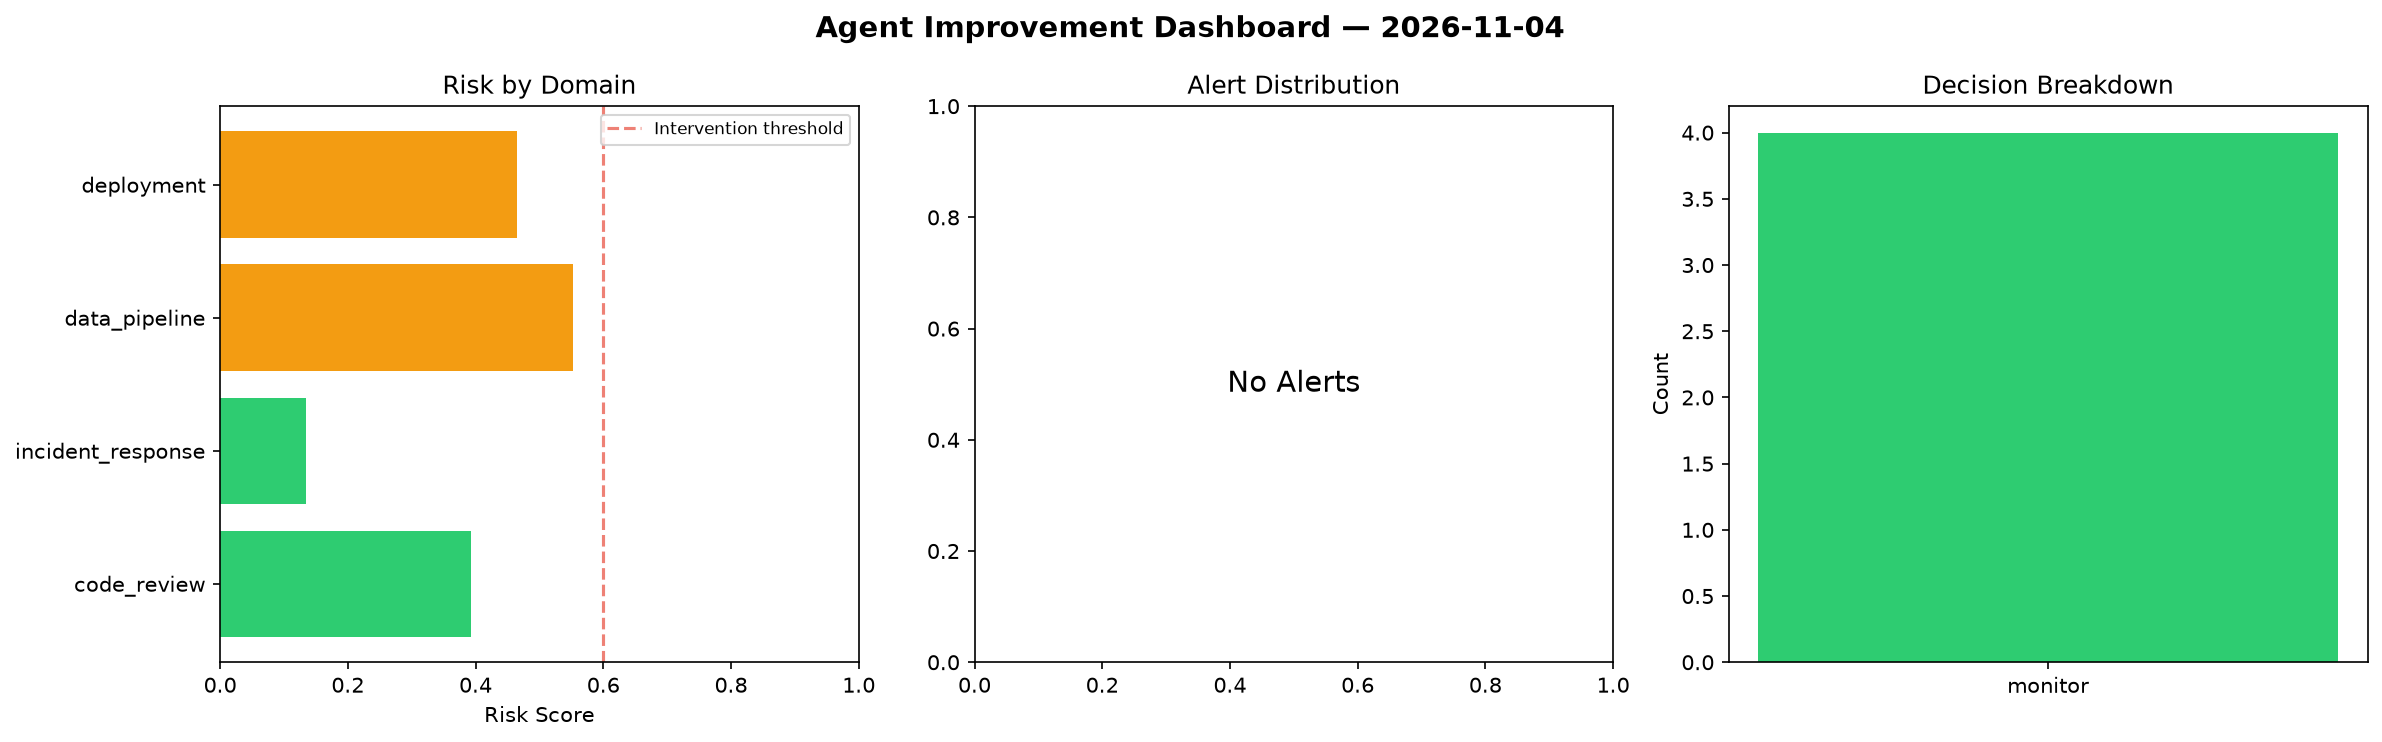
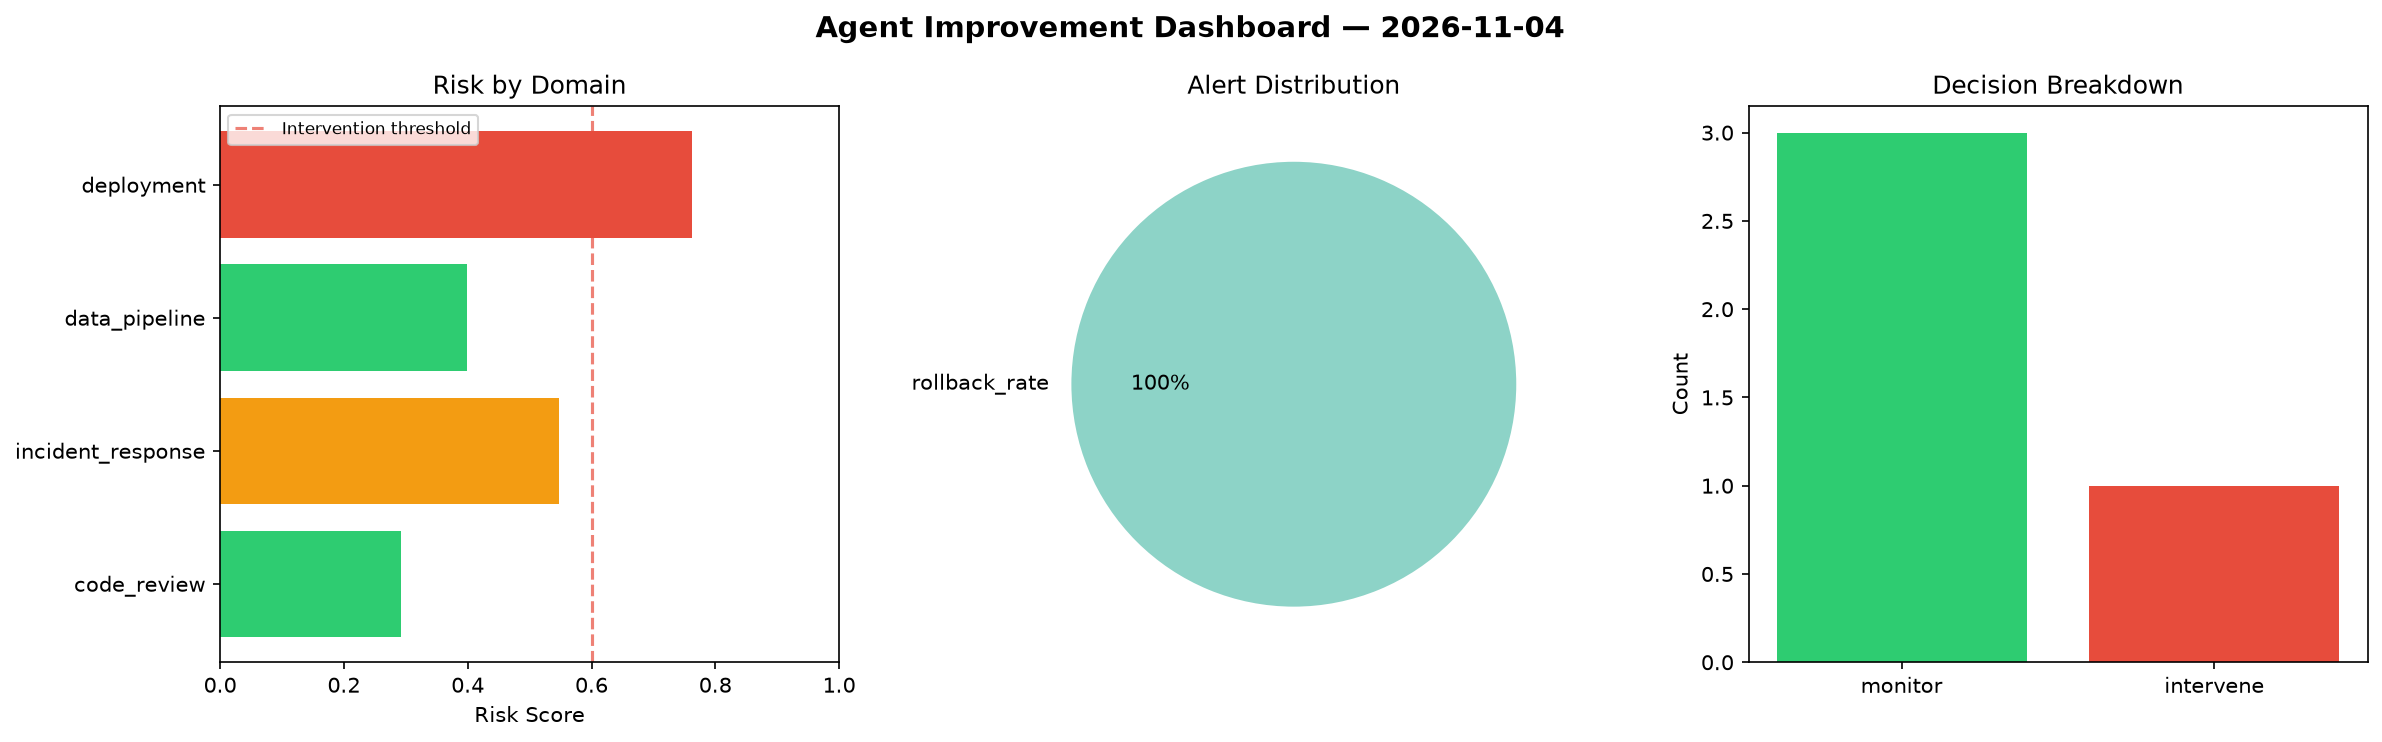
agent-improvement: daily cycle 2026-11-04T09:06

diff --git a/logs/2026-11-04.md b/logs/2026-11-04.md
@@ -1,6 +1,6 @@
 # Agent Improvement Report — 2026-11-04
 
-**Cycle ID:** `7316dcc2` | **Avg Risk:** 0.3864 | **Interventions:** 0/4
+**Cycle ID:** `2d770952` | **Avg Risk:** 0.5 | **Interventions:** 1/4
 
 ![Dashboard](2026-11-04_dashboard.png)
 
@@ -10,18 +10,18 @@
 
 | Domain | Risk Score | Decision | Alerts |
 |--------|-----------|----------|--------|
-| code_review | 0.3921 | monitor | none |
-| incident_response | 0.1348 | monitor | none |
-| data_pipeline | 0.5531 | monitor | none |
-| deployment | 0.4654 | monitor | none |
+| code_review | 0.2914 | monitor | none |
+| incident_response | 0.5471 | monitor | none |
+| data_pipeline | 0.3994 | monitor | none |
+| deployment | 0.7623 | intervene | rollback_rate |
 
 ## Delta vs Yesterday
 
 | Domain | Today | Yesterday | Change |
 |--------|-------|-----------|--------|
-| code_review | 0.3921 | 0.6879 | 📉 -43.0% |
-| incident_response | 0.1348 | 0.337 | 📉 -60.0% |
-| data_pipeline | 0.5531 | 0.5182 | 📈 6.7% |
-| deployment | 0.4654 | 0.5971 | 📉 -22.1% |
+| code_review | 0.2914 | 0.6879 | 📉 -57.6% |
+| incident_response | 0.5471 | 0.337 | 📈 62.3% |
+| data_pipeline | 0.3994 | 0.5182 | 📉 -22.9% |
+| deployment | 0.7623 | 0.5971 | 📈 27.7% |
 
 **Refinement:** `{'adjustment': 'tighten_thresholds', 'trend': 'degrading', 'window': 4}`
